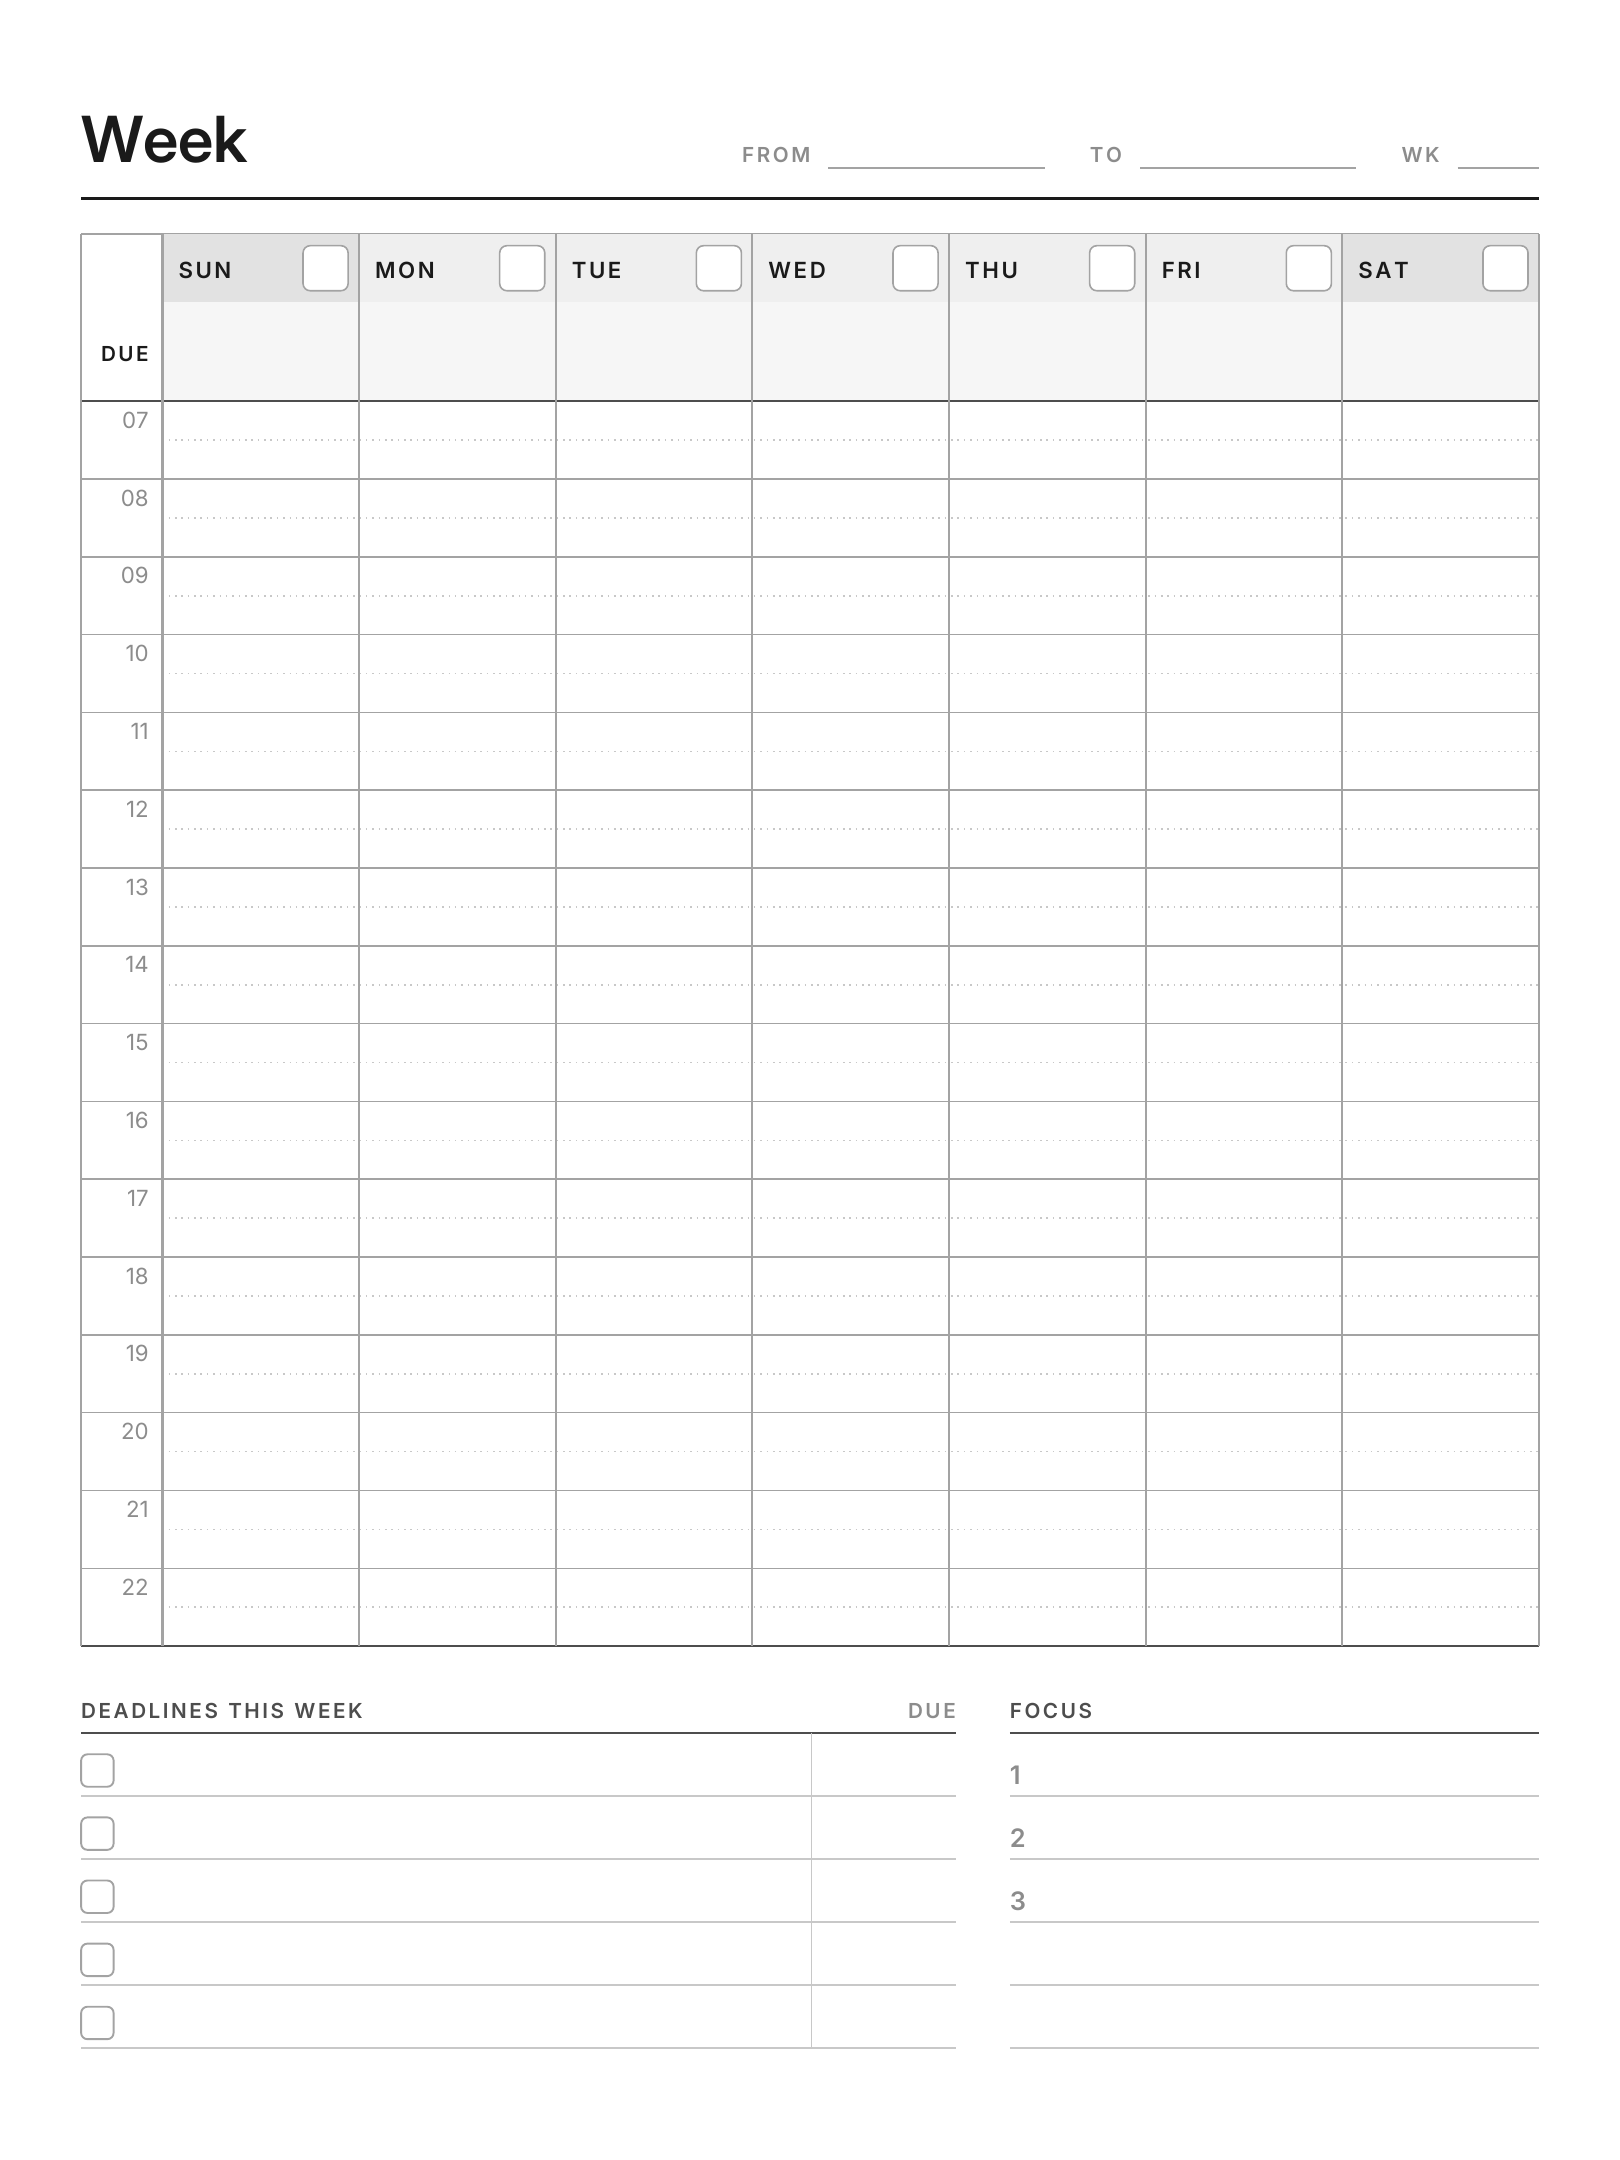
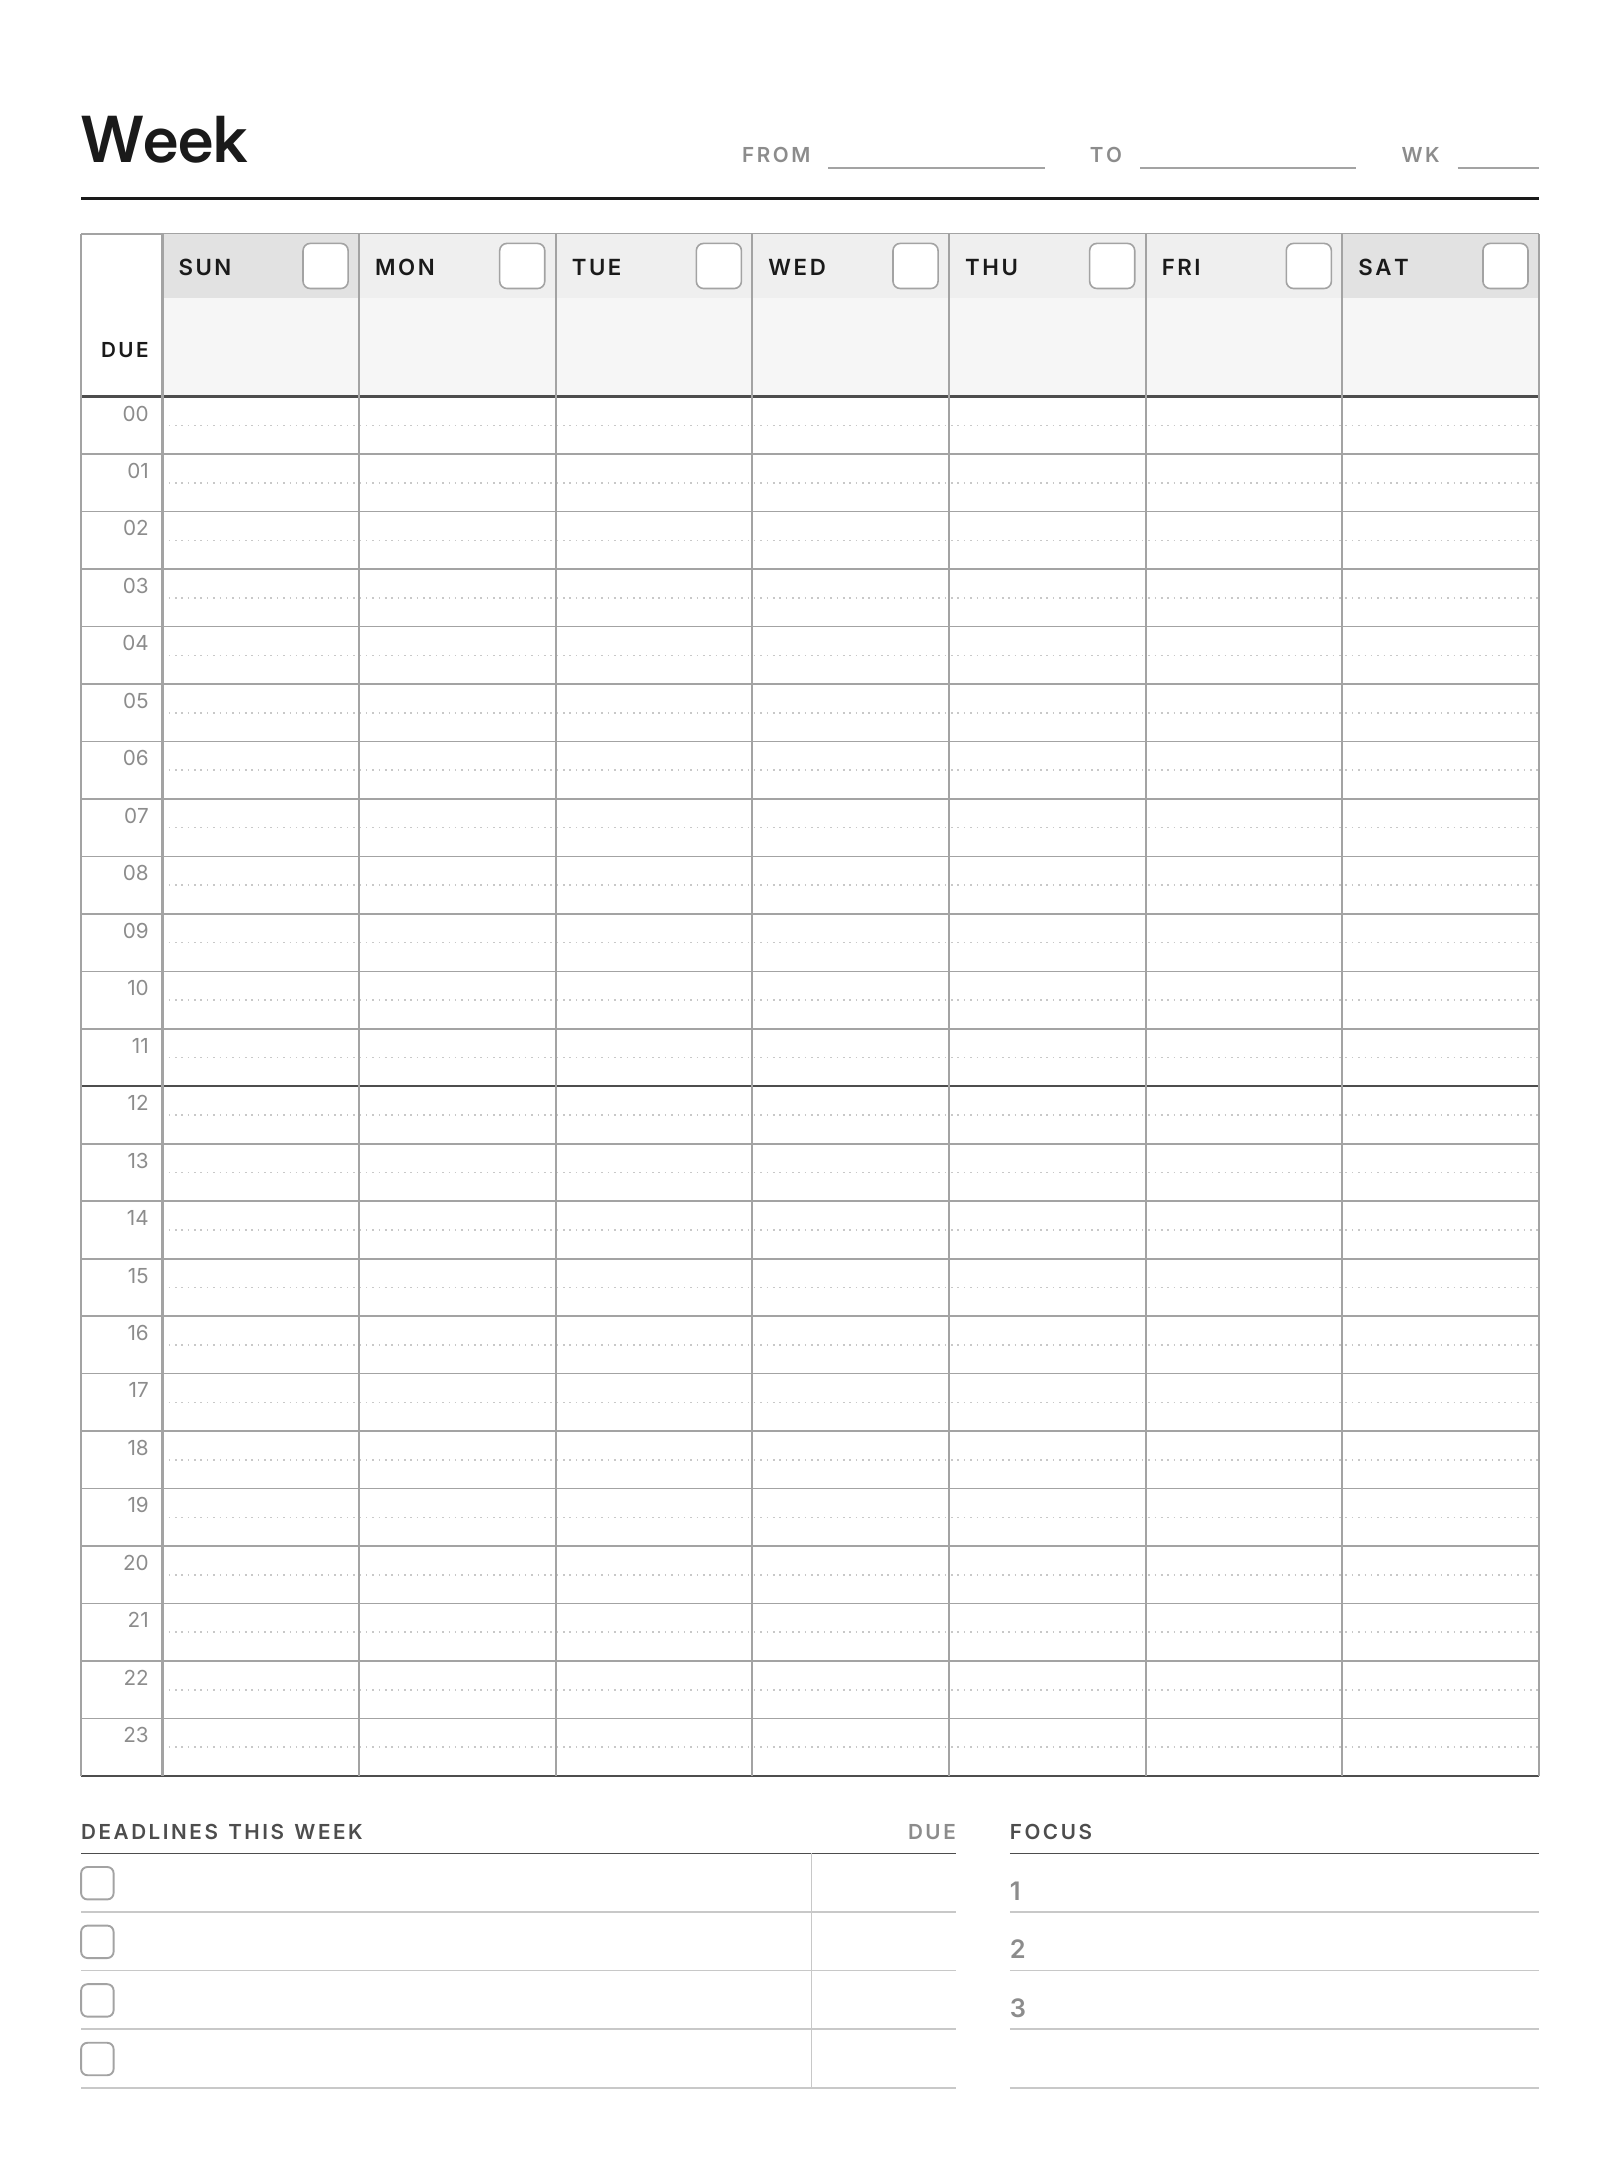
Extend the Week grid to a full 24 hours
The hour grid now runs 00:00-24:00 (24-hour labels, darker noon line). To
keep the page size, the bottom panel drops to 4 rows at a 6.5 mm pitch and
the day header loses 0.5 mm; each hour row is now 6.4 mm.

Claude-Session: https://claude.ai/code/session_01Tvx9Ty6SEp6i2qdgGWyzdm

diff --git a/remarkable-planner/build.py b/remarkable-planner/build.py
@@ -189,7 +189,9 @@ def day_dividers(c, y1, y2):
 def draw_week(c, days, start_hour, end_hour):
     """The main planning view: an hour grid to block study/work sessions into."""
     header(c, "Week", [("From", 24 * mm), ("To", 24 * mm), ("Wk", 9 * mm)])
-    hdr_h, due_h, panel_h = 7.5 * mm, 11 * mm, 44 * mm
+    hdr_h, due_h, gap = 7 * mm, 11 * mm, 4 * mm
+    panel_rows, panel_pitch = 4, 6.5 * mm  # kept short so a full day fits the grid
+    panel_h = 4.6 * mm + panel_rows * panel_pitch
     gx = LEFT + GUTTER
 
     y = CONTENT_TOP
@@ -202,33 +204,34 @@ def draw_week(c, days, start_hour, end_hour):
     grid_top = y + due_h
     hline(c, LEFT, RIGHT, grid_top, color=TEXT, width=0.8)
 
-    grid_bottom = CONTENT_BOTTOM - panel_h - 5 * mm
+    grid_bottom = CONTENT_BOTTOM - panel_h - gap
     hours = end_hour - start_hour
     row = (grid_bottom - grid_top) / hours
     for i in range(hours):
         ry = grid_top + i * row
-        if i:
-            hline(c, LEFT, RIGHT, ry, color=LINE, width=0.5)
+        hour = (start_hour + i) % 24
+        if i:  # noon is drawn darker so you can find midday at a glance
+            hline(c, LEFT, RIGHT, ry, color=TEXT if hour == 12 else LINE,
+                  width=0.7 if hour == 12 else 0.5)
         hline(c, gx, RIGHT, ry + row / 2, color=FAINT, width=0.5, dash=[0.5, 1.5])
-        text(c, gx - 1.5 * mm, ry + 3 * mm, f"{(start_hour + i) % 24:02d}",
-             7, "regular", MUTED, "right")
+        text(c, gx - 1.5 * mm, ry + 2.7 * mm, f"{hour:02d}", 6.5, "regular", MUTED, "right")
     hline(c, LEFT, RIGHT, grid_bottom, color=TEXT, width=0.8)
     day_dividers(c, CONTENT_TOP, grid_bottom)
     vline(c, LEFT, CONTENT_TOP, grid_bottom, color=LINE, width=0.6)
 
     # Bottom: this week's deadlines (left) and focus (right).
-    y = grid_bottom + 5 * mm
+    y = grid_bottom + gap
     lw = CONTENT_W * 0.6
     rx, rw = LEFT + lw + 6 * mm, CONTENT_W - lw - 6 * mm
     due_col = 16 * mm
     top = panel_title(c, LEFT, y, lw, "Deadlines this week", note="Due")
-    ys = write_lines(c, LEFT, top, lw, CONTENT_BOTTOM)
+    ys = write_lines(c, LEFT, top, lw, CONTENT_BOTTOM, pitch=panel_pitch)
     for ly in ys:
-        checkbox(c, LEFT, ly - 4.6 * mm)
+        checkbox(c, LEFT, ly - 5 * mm)
     vline(c, LEFT + lw - due_col, top, ys[-1], color=FAINT, width=0.5)
 
     top = panel_title(c, rx, y, rw, "Focus")
-    for n, ly in enumerate(write_lines(c, rx, top, rw, CONTENT_BOTTOM), 1):
+    for n, ly in enumerate(write_lines(c, rx, top, rw, CONTENT_BOTTOM, pitch=panel_pitch), 1):
         if n <= 3:
             text(c, rx, ly - 1.3 * mm, str(n), 8, "bold", MUTED)
 
@@ -391,8 +394,8 @@ def build(args):
 if __name__ == "__main__":
     p = argparse.ArgumentParser(description=__doc__.splitlines()[0])
     p.add_argument("--title", default="Monthly Calendar", help="title on the cover")
-    p.add_argument("--start-hour", type=int, default=7, help="first hour on the Week grid")
-    p.add_argument("--end-hour", type=int, default=23, help="hour the Week grid ends at")
+    p.add_argument("--start-hour", type=int, default=0, help="first hour on the Week grid")
+    p.add_argument("--end-hour", type=int, default=24, help="hour the Week grid ends at")
     p.add_argument("--week-start", choices=["sun", "mon"], default="sun")
     p.add_argument("--out", default=str(HERE / "output"))
     build(p.parse_args())

diff --git a/remarkable-planner/README.md b/remarkable-planner/README.md
@@ -6,7 +6,7 @@ An undated, grayscale, **reusable** 4-page planner. You don't flip forward to ne
 |---|---|---|
 | **Cover** | Minimal title page ("Monthly Calendar") | never |
 | **Month** | 6×7 grid (Sunday first) with a box in each cell for the date, a week-number column, key deadlines and goals | at the start of each month |
-| **Week** | The main planning view: a DUE strip for hand-ins, then a 07:00–23:00 hour grid (dotted half hours) to block study/work sessions into, plus this week's deadlines and focus | at the start of each week |
+| **Week** | The main planning view: a DUE strip for hand-ins, then a full-day 00:00–24:00 hour grid (dotted half hours, darker noon line) to block study/work sessions into, plus this week's deadlines and focus | at the start of each week |
 | **Deadlines** | The inbox: every deadline goes here the moment you hear about it. Columns: Done, Due, Deadline, Subject, Priority, Estimated hours, Planned | when it fills up (cross off done rows) |
 
 The Deadlines page is what makes clearing safe. Anything that isn't finished or isn't due yet lives there, so clearing the Week page loses nothing.
@@ -32,7 +32,7 @@ Drag the PDF into the reMarkable desktop app, upload it at my.remarkable.com, or
 
 ```sh
 pip install reportlab          # pillow is optional, for grayscale PNGs
-python3 build.py               # defaults: "Monthly Calendar", 07–23, Sunday start
+python3 build.py               # defaults: "Monthly Calendar", 00–24, Sunday start
 python3 build.py --title "Term Planner" --start-hour 6 --end-hour 24 --week-start mon
 ```
 
